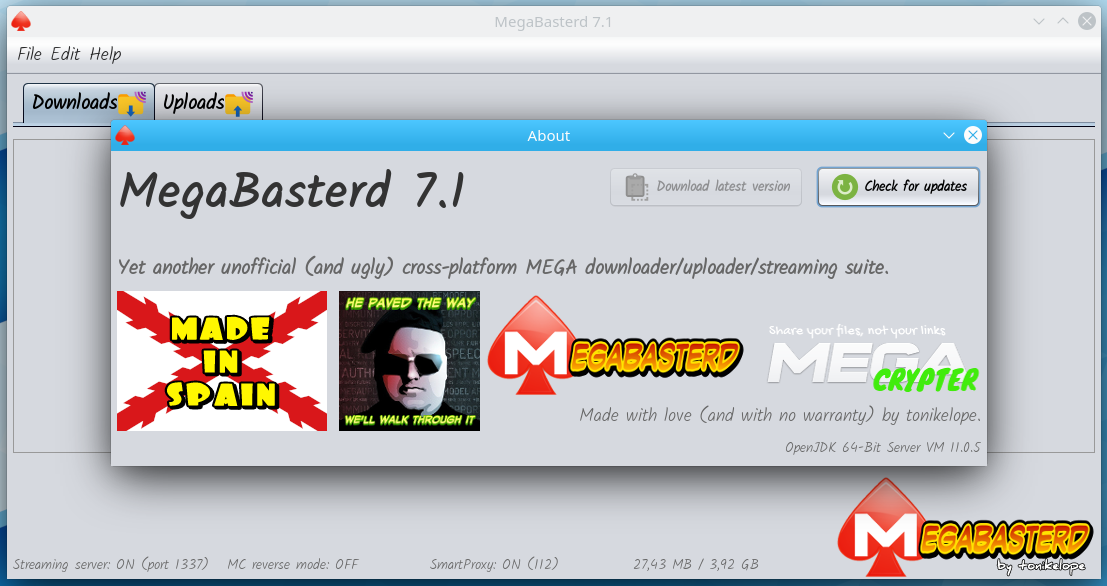
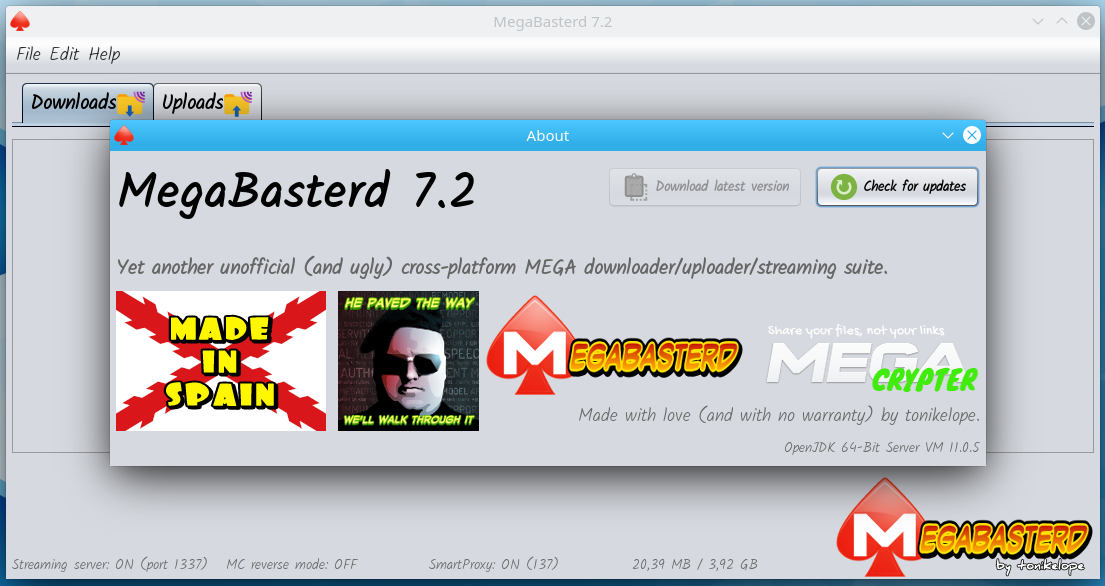
7.2
- Resume download fix

(cherry picked from commit 7a3675fc2fa5059f2377e1dcfa98c23638ac9d4c)
(cherry picked from commit 736cbfd49c9dd20e12f6a51c4640b42b572f9dd3)

diff --git a/src/main/java/com/tonikelope/megabasterd/Download.java b/src/main/java/com/tonikelope/megabasterd/Download.java
@@ -119,7 +119,7 @@ public class Download implements Transference, Runnable, SecureSingleThreadNotif
         _exit = false;
         _progress_watchdog_lock = new Object();
         _last_download_url = null;
-        _provision_ok = true;
+        _provision_ok = false;
         _progress = 0L;
         _notified = false;
         _main_panel = main_panel;
@@ -165,7 +165,7 @@ public class Download implements Transference, Runnable, SecureSingleThreadNotif
         _exit = false;
         _progress_watchdog_lock = new Object();
         _last_download_url = null;
-        _provision_ok = true;
+        _provision_ok = false;
         _progress = 0L;
         _notified = false;
         _main_panel = download.getMain_panel();
@@ -976,7 +976,7 @@ public class Download implements Transference, Runnable, SecureSingleThreadNotif
         _provision_ok = false;
 
         try {
-            if (_file_name == null) {
+            if (_file_name == null && !_restart) {
 
                 file_info = getMegaFileMetadata(_url, getMain_panel().getView(), retry);
 
@@ -1010,18 +1010,6 @@ public class Download implements Transference, Runnable, SecureSingleThreadNotif
 
                 }
 
-            } else if (_restart) {
-
-                try {
-
-                    insertDownload(_url, _ma.getFull_email(), _download_path, _file_name, _file_key, _file_size, _file_pass, _file_noexpire, _custom_chunks_dir);
-
-                    _provision_ok = true;
-
-                } catch (SQLException ex) {
-
-                    _status_error = "Error registering download: file is already downloading.";
-                }
             } else {
 
                 _provision_ok = true;

diff --git a/src/main/java/com/tonikelope/megabasterd/MainPanel.java b/src/main/java/com/tonikelope/megabasterd/MainPanel.java
@@ -54,7 +54,7 @@ import javax.swing.UIManager;
  */
 public final class MainPanel {
 
-    public static final String VERSION = "7.1";
+    public static final String VERSION = "7.2";
     public static final int THROTTLE_SLICE_SIZE = 16 * 1024;
     public static final int DEFAULT_BYTE_BUFFER_SIZE = 16 * 1024;
     public static final int STREAMER_PORT = 1337;
